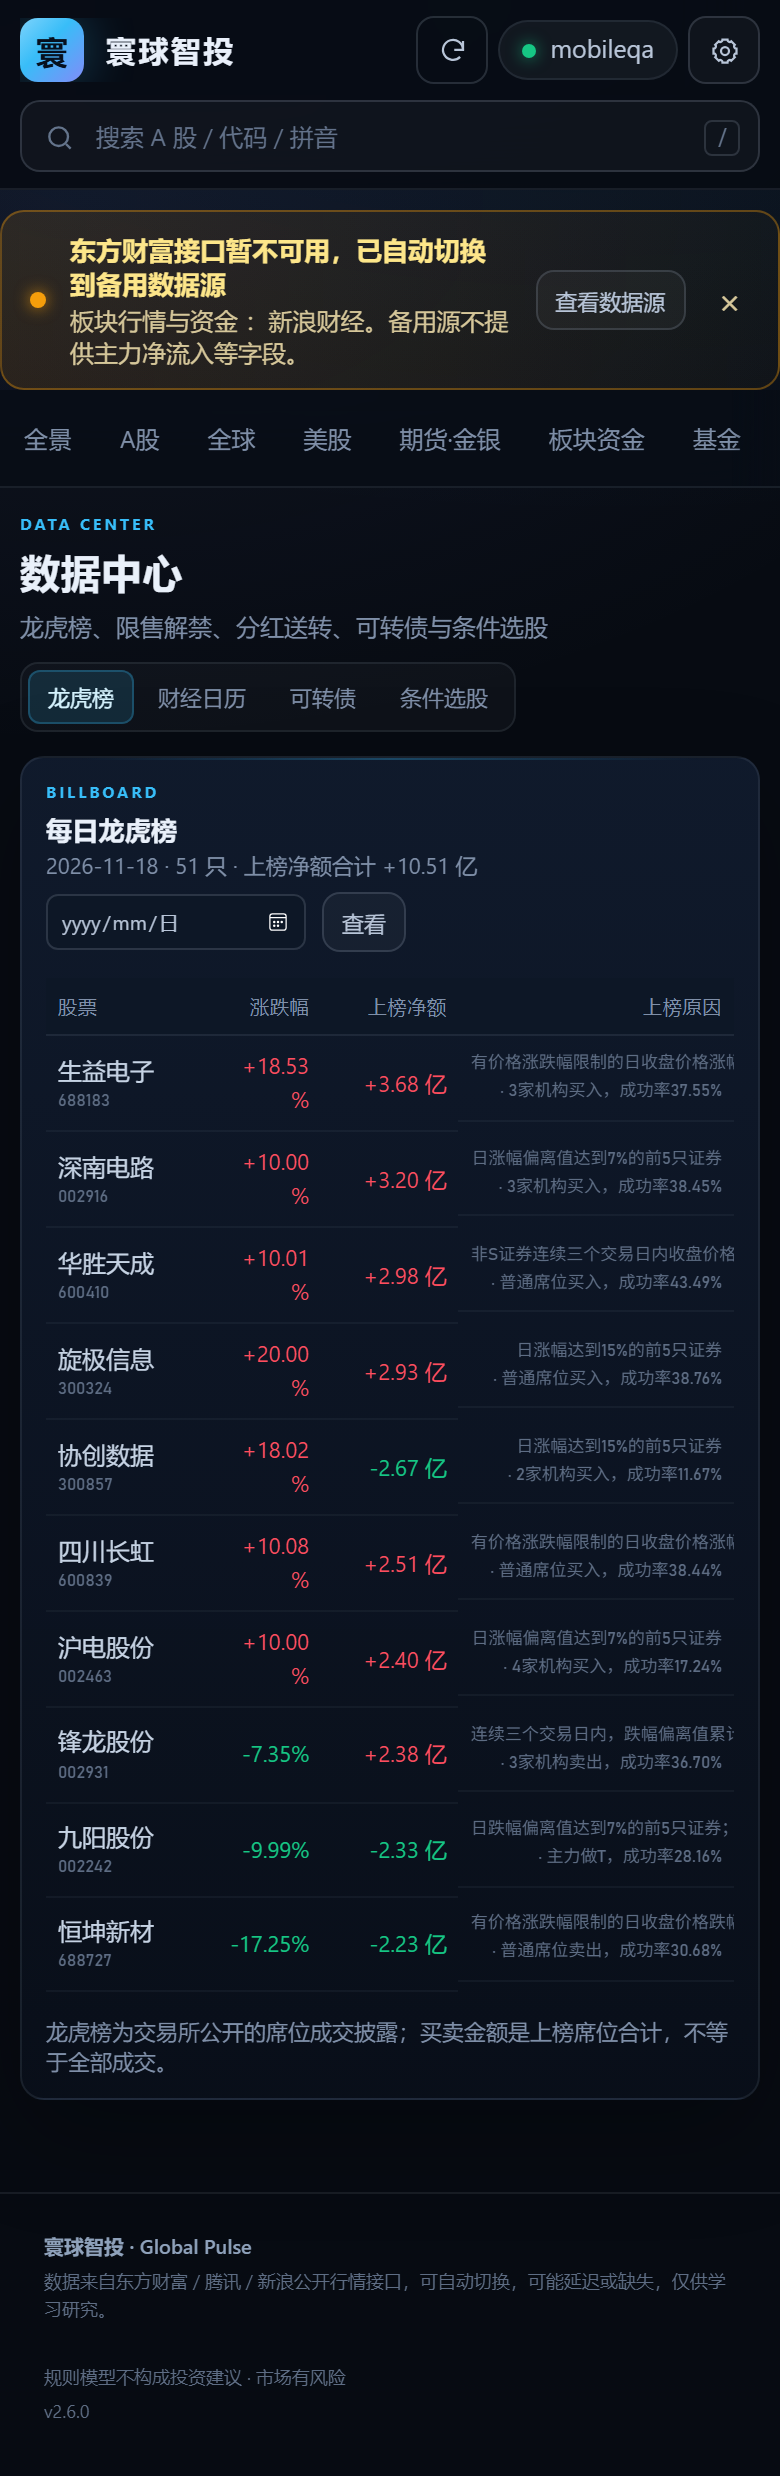
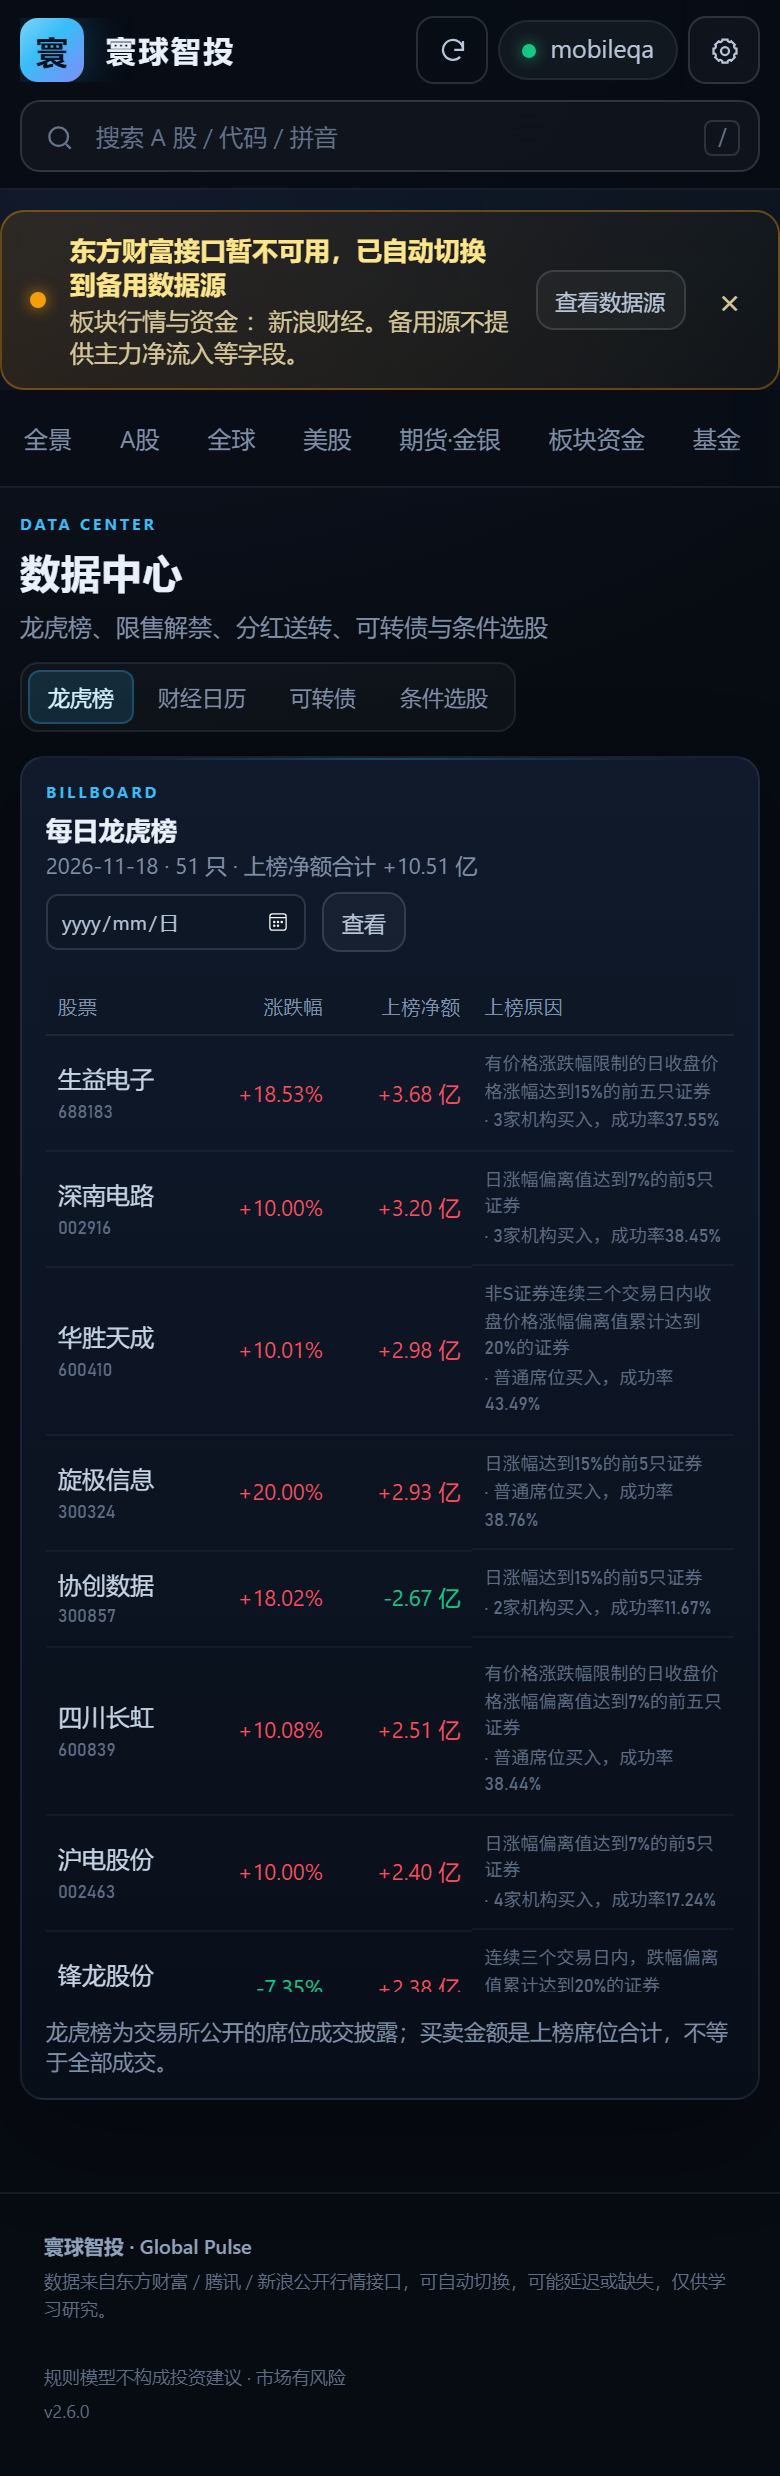
auto: 2026-11-19 01:11

diff --git a/public/css/app.css b/public/css/app.css
@@ -3027,5 +3027,44 @@ button[hidden] { display: none !important; }
   .longhu-table td { white-space: normal; overflow-wrap: anywhere; line-height: 1.5; }
   /* .table .t-sub 有自己的 white-space:nowrap，这里要压过它，否则原因会被截断成一行 */
   .longhu-table .t-sub { white-space: normal; font-size: 9px; }
+  /* 原因是说明性文字，左对齐更好读 */
+  .longhu-table th:last-child,
+  .longhu-table td:last-child { text-align: left; }
+}
+
+
+/* 数据中心其余两张表：手机上按「最有信息量」保留少量列，避免右侧被裁 */
+@media (max-width: 700px) {
+  .calendar-table, .cb-table, .screener-table { table-layout: fixed; width: 100%; }
+  .calendar-table th, .calendar-table td,
+  .cb-table th, .cb-table td,
+  .screener-table th, .screener-table td {
+    white-space: normal;
+    overflow-wrap: anywhere;
+    line-height: 1.5;
+  }
+  .calendar-table .t-sub, .cb-table .t-sub { white-space: normal; }
+
+  /* 解禁：解禁日 / 股票 / 解禁市值 / 占流通比（隐藏 解禁份额、可解禁份额、类型） */
+  .calendar-lift th:nth-child(4), .calendar-lift td:nth-child(4),
+  .calendar-lift th:nth-child(5), .calendar-lift td:nth-child(5),
+  .calendar-lift th:nth-child(7), .calendar-lift td:nth-child(7) { display: none; }
+
+  /* 分红：股票 / 方案 / 每10股派息 / 除权除息日（隐藏 送转、进度、公告日、股权登记日） */
+  .calendar-bonus th:nth-child(4), .calendar-bonus td:nth-child(4),
+  .calendar-bonus th:nth-child(5), .calendar-bonus td:nth-child(5),
+  .calendar-bonus th:nth-child(6), .calendar-bonus td:nth-child(6),
+  .calendar-bonus th:nth-child(7), .calendar-bonus td:nth-child(7) { display: none; }
+
+  /* 可转债：转债 / 现价 / 涨跌 / 评级（隐藏 正股、发行规模、上市日、到期日） */
+  .cb-table th:nth-child(4), .cb-table td:nth-child(4),
+  .cb-table th:nth-child(6), .cb-table td:nth-child(6),
+  .cb-table th:nth-child(7), .cb-table td:nth-child(7),
+  .cb-table th:nth-child(8), .cb-table td:nth-child(8) { display: none; }
+
+  /* 选股结果：股票 / 现价 / 涨跌幅 / 换手 / 成交额（隐藏 PE / PB / 市值等） */
+  .screener-table th:nth-child(6), .screener-table td:nth-child(6),
+  .screener-table th:nth-child(7), .screener-table td:nth-child(7),
+  .screener-table th:nth-child(9), .screener-table td:nth-child(9) { display: none; }
 }
 

diff --git a/public/index.html b/public/index.html
@@ -1,4 +1,4 @@
-<!doctype html>
+<!doctype html>
 <html lang="zh-CN">
 <head>
   <meta charset="utf-8">
@@ -1229,7 +1229,7 @@
             </div>
           </div>
           <div class="table-scroll tall-table">
-            <table class="table" id="calendarTable"></table>
+            <table class="table calendar-table" id="calendarTable"></table>
           </div>
           <p class="muted small mt12" id="calendarNote">解禁市值按「解禁份额 × 最新价」估算；能解禁的份额与全部份额不同。</p>
         </article>
@@ -1246,7 +1246,7 @@
             <span class="badge">沪深挂牌 · 已剔除退市债</span>
           </div>
           <div class="table-scroll tall-table">
-            <table class="table" id="cbTable"></table>
+            <table class="table cb-table" id="cbTable"></table>
           </div>
           <p class="muted small mt12">价格为腾讯行情补全的现价；报表不提供实时行情，取不到时显示「--」而不是拿发行价冒充现价。</p>
         </article>
@@ -1289,7 +1289,7 @@
             <button class="text-link" id="scrReset">清空条件</button>
           </div>
           <div class="table-scroll tall-table mt12">
-            <table class="table" id="screenerTable"></table>
+            <table class="table screener-table" id="screenerTable"></table>
           </div>
           <p class="muted small mt12" id="screenerNote">样本为新浪全市场快照（约 5000 只）；PE/PB 为负或缺失时视为无法评估。</p>
         </article>

diff --git a/public/js/app.js b/public/js/app.js
@@ -6202,6 +6202,7 @@ function renderCalendar() {
     return;
   }
   if (d.type === 'bonus') {
+    table.className = 'table calendar-table calendar-bonus';
     table.innerHTML = `<thead><tr><th>股票</th><th>方案</th><th>每10股派息</th><th>送转</th><th>进度</th><th>公告日</th><th>股权登记日</th><th>除权除息日</th></tr></thead>
       <tbody>${d.items.map((x) => `<tr>
         <td><span class="t-name">${esc(cleanName(x.name))}</span><span class="t-sub">${esc(x.code)}</span></td>
@@ -6215,6 +6216,7 @@ function renderCalendar() {
       </tr>`).join('')}</tbody>`;
     return;
   }
+  table.className = 'table calendar-table calendar-lift';
   table.innerHTML = `<thead><tr><th>解禁日</th><th>股票</th><th>解禁市值</th><th>解禁份额</th><th>可解禁份额</th><th>占流通比</th><th>类型</th></tr></thead>
     <tbody>${d.items.map((x) => `<tr>
       <td>${esc(x.date)}</td>
@@ -6313,7 +6315,12 @@ function renderScreener() {
   const table = $('#screenerTable');
   const d = state.screener;
   if (!table) return;
-  if ($('#screenerBadge')) $('#screenerBadge').textContent = d ? `${d.matched} 只命中` : '--';
+  if ($('#screenerBadge')) {
+    // 没出结果时不显示一个孤零零的「--」徽标
+    const badge = $('#screenerBadge');
+    badge.textContent = d ? `${d.matched} 只命中` : '';
+    badge.hidden = !d;
+  }
   if ($('#screenerMeta')) {
     $('#screenerMeta').textContent = d
       ? `样本 ${d.poolSize} 只 · 扫描 ${d.scannedPages} 页 · 命中 ${d.matched} 只`
